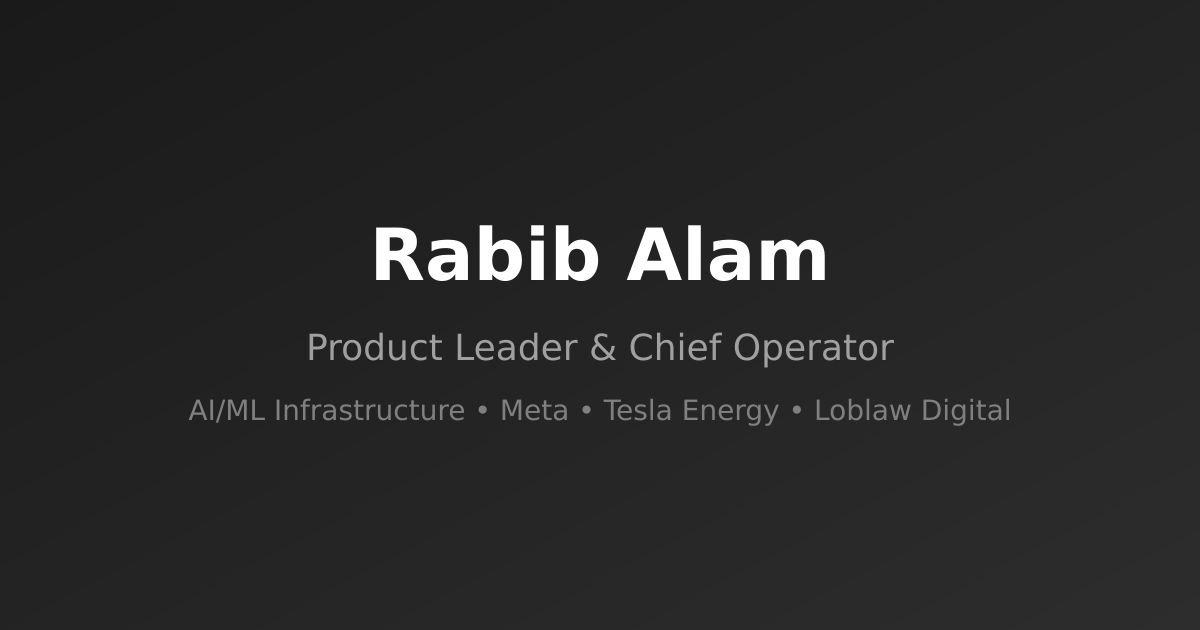
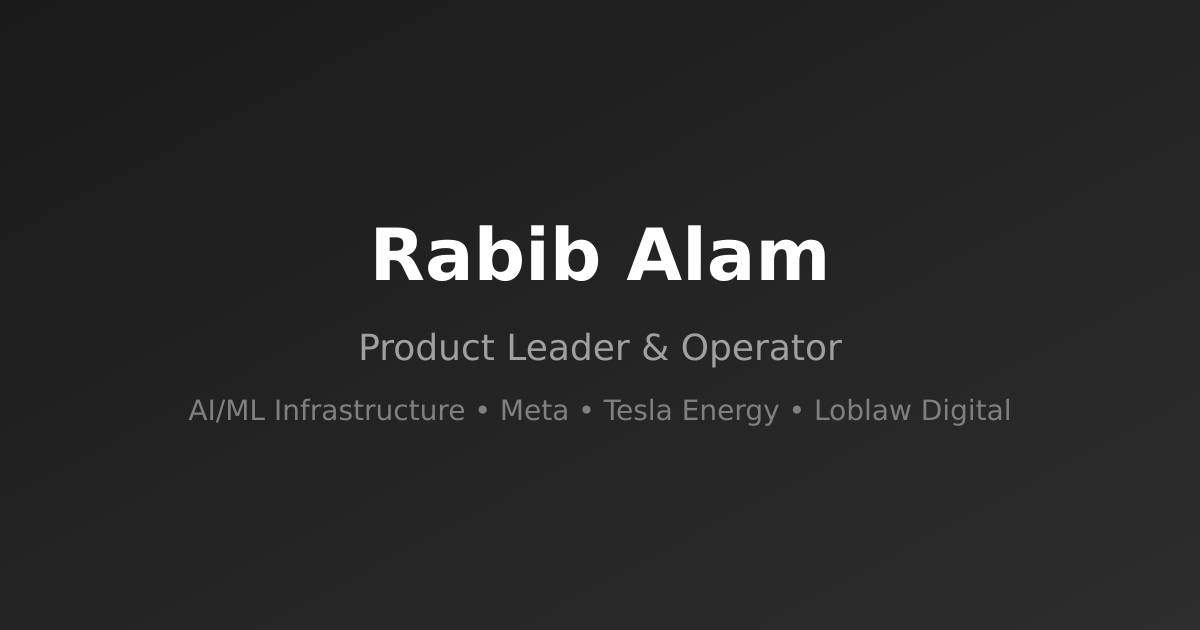
Replace 'Chief Operator' with 'Operator' across website and assets
- Update page title and meta tags in index.html
- Update hero section and footer components
- Update og-image.svg and regenerate og-image.png
- Update design guidelines and documentation

Changed region(s): [[0.2467, 0.5127, 0.74, 0.573]]

diff --git a/client/index.html b/client/index.html
@@ -3,15 +3,15 @@
   <head>
     <meta charset="UTF-8" />
     <meta name="viewport" content="width=device-width, initial-scale=1.0, maximum-scale=1" />
-    <title>Rabib Alam - Product Leader & Chief Operator</title>
-    <meta name="description" content="Rabib Alam is a product leader and chief operator specializing in AI/ML infrastructure, driving $10M+ revenue impact and managing 1M+ device deployments at Meta, Tesla Energy, and Loblaw Digital." />
-    <meta property="og:title" content="Rabib Alam - Product Leader & Chief Operator" />
+    <title>Rabib Alam - Product Leader & Operator</title>
+    <meta name="description" content="Rabib Alam is a product leader and operator specializing in AI/ML infrastructure, driving $10M+ revenue impact and managing 1M+ device deployments at Meta, Tesla Energy, and Loblaw Digital." />
+    <meta property="og:title" content="Rabib Alam - Product Leader & Operator" />
     <meta property="og:description" content="Product leader specializing in AI/ML infrastructure, driving measurable business impact across Meta, Tesla Energy, and Loblaw Digital." />
     <meta property="og:type" content="website" />
     <meta property="og:image" content="https://beebfolio.vercel.app/og-image.png" />
     <meta property="og:url" content="https://beebfolio.vercel.app" />
     <meta name="twitter:card" content="summary_large_image" />
-    <meta name="twitter:title" content="Rabib Alam - Product Leader & Chief Operator" />
+    <meta name="twitter:title" content="Rabib Alam - Product Leader & Operator" />
     <meta name="twitter:description" content="Product leader specializing in AI/ML infrastructure, driving measurable business impact across Meta, Tesla Energy, and Loblaw Digital." />
     <meta name="twitter:image" content="https://beebfolio.vercel.app/og-image.png" />
     <link rel="icon" type="image/svg+xml" href="/favicon.svg" />

diff --git a/client/src/components/HeroSection.tsx b/client/src/components/HeroSection.tsx
@@ -19,7 +19,7 @@ export default function HeroSection() {
                 Rabib Alam
               </h1>
               <p className="text-2xl md:text-3xl font-semibold text-muted-foreground" data-testid="text-hero-title">
-                Chief Operator. Product Leader.
+                Operator. Product Leader.
               </p>
             </div>
 

diff --git a/client/src/components/Footer.tsx b/client/src/components/Footer.tsx
@@ -10,7 +10,7 @@ export default function Footer() {
               Rabib Alam
             </h3>
             <p className="text-muted-foreground" data-testid="text-footer-title">
-              Chief Operator • Product Leader
+              Operator • Product Leader
             </p>
           </div>
 

diff --git a/design_guidelines.md b/design_guidelines.md
@@ -3,7 +3,7 @@
 ## Design Approach
 **Reference-Based:** Draw inspiration from executive portfolio sites like Linear's careers page, Stripe's about section, and LinkedIn's professional profiles. Focus on outcome-driven storytelling with clean, confident layouts that emphasize impact over formality.
 
-**Core Principle:** Present Rabib as a Chief Operator and Product Leader through quantifiable outcomes, business impact, and operational excellence rather than traditional job title hierarchies.
+**Core Principle:** Present Rabib as an Operator and Product Leader through quantifiable outcomes, business impact, and operational excellence rather than traditional job title hierarchies.
 
 ---
 
@@ -41,7 +41,7 @@
 ## Hero Section
 
 **Layout:** Full-viewport (min-h-screen) asymmetric split
-- Left 60%: Oversized name, executive tagline ("Chief Operator. Product Leader. AI/ML Technical Program Manager."), brief mission statement emphasizing operational impact
+- Left 60%: Oversized name, executive tagline ("Operator. Product Leader. AI/ML Technical Program Manager."), brief mission statement emphasizing operational impact
 - Right 40%: Professional headshot or abstract tech-inspired visual
 - Email contact subtle at bottom left
 - Scroll indicator at bottom center

diff --git a/replit.md b/replit.md
@@ -2,7 +2,7 @@
 
 ## Overview
 
-This is a professional portfolio website for Rabib Alam, a Chief Operator and Product Leader specializing in AI/ML infrastructure. The site presents his career through quantifiable outcomes and business impact rather than traditional job hierarchies, featuring sections for impact metrics, work experience, technical expertise, and education. The application is built as a single-page React application with a modern, executive-focused design system inspired by companies like Linear and Stripe.
+This is a professional portfolio website for Rabib Alam, an Operator and Product Leader specializing in AI/ML infrastructure. The site presents his career through quantifiable outcomes and business impact rather than traditional job hierarchies, featuring sections for impact metrics, work experience, technical expertise, and education. The application is built as a single-page React application with a modern, executive-focused design system inspired by companies like Linear and Stripe.
 
 ## User Preferences
 
